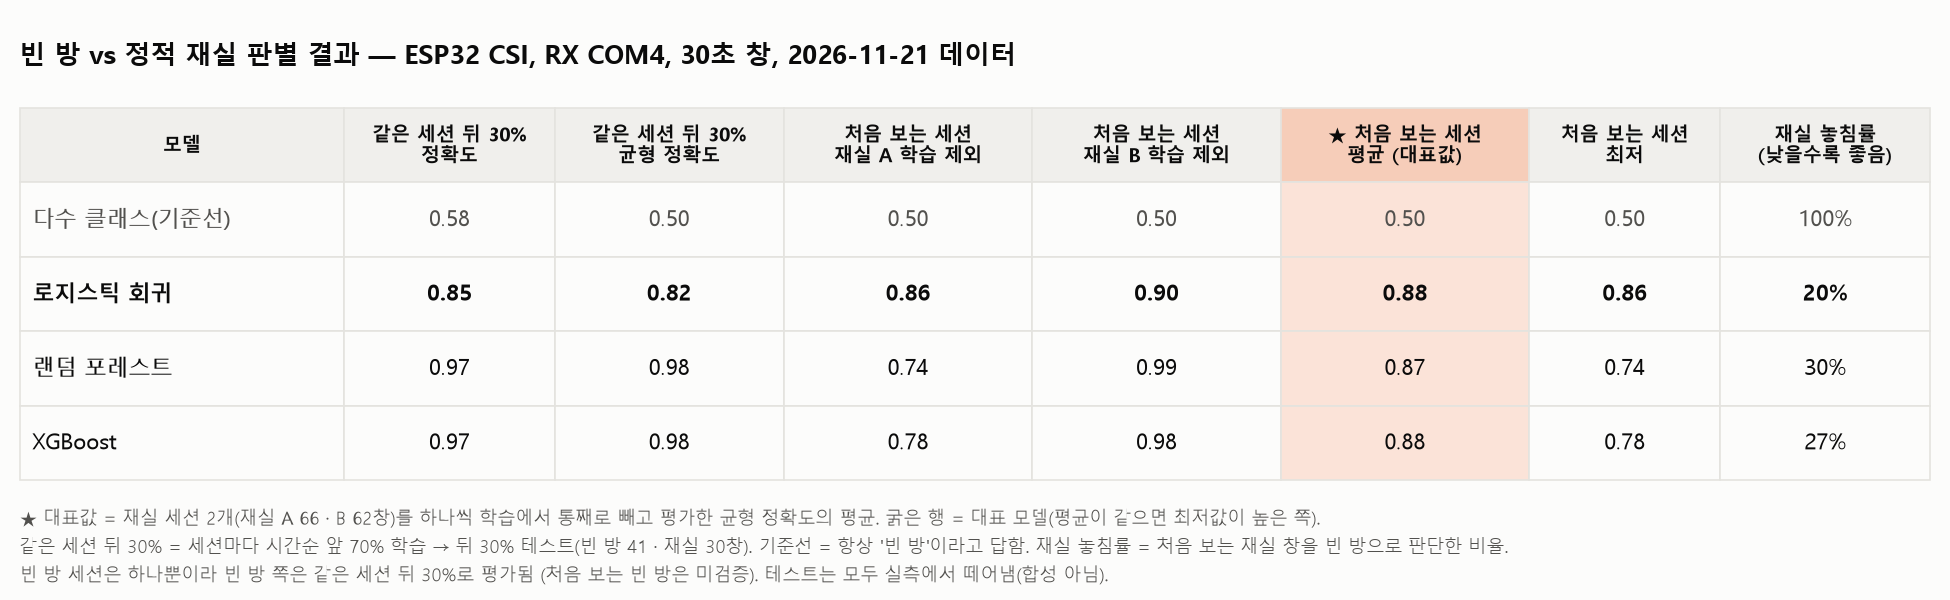
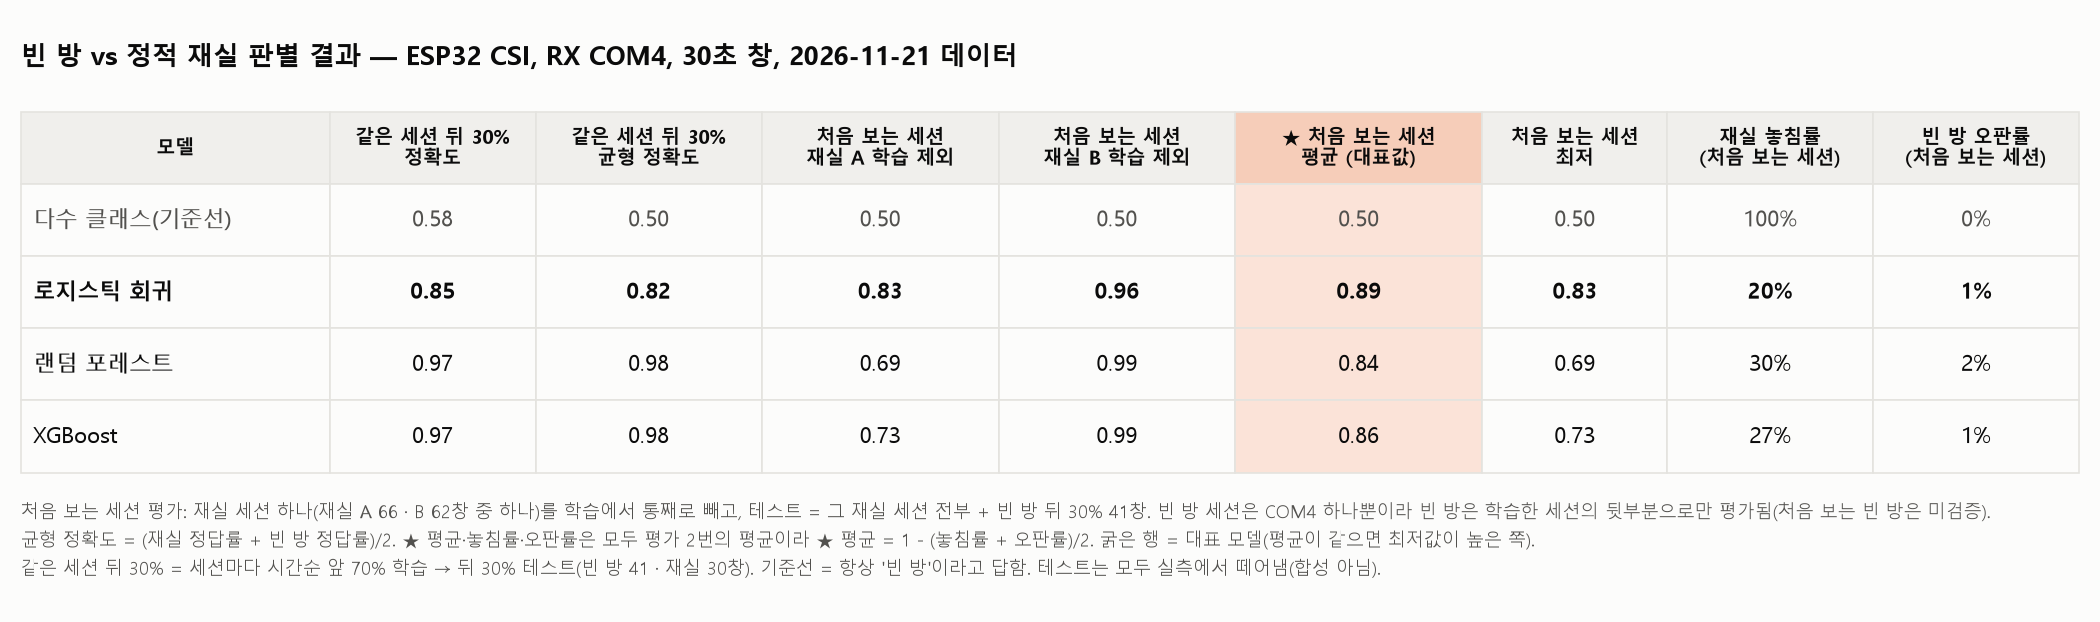
fix(pc): 결과 표 평가 기준 통일 (대표값 0.88 → 0.89)
- 처음 보는 세션 평가의 테스트 세트를 "학습에서 뺀 재실 세션 전부 + 빈 방 세션 뒤 30%"로 고정
  (이전에는 다른 재실 세션의 뒤 30%가 섞여 재실 정답률이 높게 잡힘)
- 균형 정확도·재실 놓침률·빈 방 오판률을 모두 평가별 계산 후 평균으로 통일
  → ★ 평균 = 1 - (놓침률 + 오판률)/2 가 정확히 성립, 코드에서 검사
- 빈 방 오판률 열 추가, 각주에 테스트 세트 구성과 기준 명시, 마이너스 글리프 깨짐 수정
- RESULTS.md 표·해설 갱신, 이전 판 숫자가 맞지 않았던 이유 기록

결과: 로지스틱 회귀 0.89(놓침 20%, 오판 1%), 랜덤 포레스트 0.84(30%, 2%), XGBoost 0.86(27%, 1%).

diff --git a/pc/results_table.py b/pc/results_table.py
@@ -7,9 +7,13 @@ r"""
 
 열
     같은 세션 뒤 30%      : 세션마다 시간순 앞 70% 학습 → 뒤 30% 테스트 (정확도, 균형 정확도)
-    처음 보는 재실 세션   : 재실 세션 하나를 학습에서 통째로 빼고 평가한 균형 정확도 (A, B, 평균, 최저)
-                            ★ 대표값 = 평균. 빈 방 쪽은 세션이 하나뿐이라 같은 세션 뒤 30%로 평가됨
-    재실 놓침률           : 처음 보는 재실 세션 평가 2번에서 재실 창을 빈 방으로 판단한 비율 (낮을수록 좋음)
+    처음 보는 재실 세션   : 재실 세션 하나(A 또는 B)를 학습에서 통째로 빼고 평가 (평가 2번)
+        테스트 세트 = 뺀 재실 세션의 창 전부 + 빈 방 세션의 시간순 뒤 30%
+        (빈 방 세션은 COM4 하나뿐이라 빈 방은 학습한 세션의 뒷부분으로만 평가된다. 다른 재실 세션의 뒤 30%는 넣지 않음)
+        균형 정확도 = (재실 정답률 + 빈 방 정답률) / 2, 평가마다 계산
+        ★ 평균 / 최저 = 평가 2번의 균형 정확도 평균 / 최저
+        재실 놓침률 = 1 − 재실 정답률, 빈 방 오판률 = 1 − 빈 방 정답률 — 둘 다 평가 2번의 평균
+        → 기준이 같아서 ★ 평균 = 1 − (재실 놓침률 + 빈 방 오판률) / 2 가 정확히 성립한다
 """
 from __future__ import annotations
 
@@ -45,29 +49,36 @@ def compute(features_csv: Path, rx: str = "COM4") -> pd.DataFrame:
     rows = {}
     tr, te = temporal_split(df, 0.3)
     same = fit_predict(tr, te)
-    held, miss_n, miss_d = {}, {}, {}
+    folds = {}          # name -> {key: (재실 정답률, 빈 방 정답률)}
+    n_empty_test = {}
     for key, sess in HELD.items():
         tr2, te2 = temporal_split(df, 0.3, [sess])
-        pred = fit_predict(tr2, te2)
+        test = te2[(te2.session == sess) | (te2.cls == "empty")]    # 뺀 재실 세션 + 빈 방 뒤 30%만
+        n_empty_test[key] = int((test.cls == "empty").sum())
+        pred = fit_predict(tr2, test)
+        y = test["cls"].to_numpy()
         for name, p in pred.items():
-            y = te2["cls"].to_numpy()
-            held.setdefault(name, {})[key] = balanced_accuracy_score(y, p)
-            g = (te2.session == sess).to_numpy()
-            miss_n[name] = miss_n.get(name, 0) + int((p[g] == "empty").sum())
-            miss_d[name] = miss_d.get(name, 0) + int(g.sum())
+            r_s = float(np.mean(p[y == "static"] == "static"))
+            r_e = float(np.mean(p[y == "empty"] == "empty"))
+            folds.setdefault(name, {})[key] = (r_s, r_e)
     order = ["다수 클래스(기준선)"] + [n for n in MODEL_KEYS if n in same]
     for name in order:
-        h = held[name]
+        f = folds[name]
+        bal = {k: (rs + re) / 2 for k, (rs, re) in f.items()}
         rows[name] = {
             "같은 세션 정확도": accuracy_score(te["cls"], same[name]),
             "같은 세션 균형 정확도": balanced_accuracy_score(te["cls"], same[name]),
-            "재실 A 제외": h["A"], "재실 B 제외": h["B"],
-            "★ 처음 보는 세션 평균": np.mean(list(h.values())), "처음 보는 세션 최저": min(h.values()),
-            "재실 놓침률": miss_n[name] / miss_d[name],
+            "재실 A 제외": bal["A"], "재실 B 제외": bal["B"],
+            "★ 처음 보는 세션 평균": np.mean(list(bal.values())), "처음 보는 세션 최저": min(bal.values()),
+            "재실 놓침률": np.mean([1 - rs for rs, _ in f.values()]),
+            "빈 방 오판률": np.mean([1 - re for _, re in f.values()]),
         }
+        r = rows[name]   # 기준이 같은지 확인: 평균 균형 정확도 = 1 − (놓침률 + 오판률)/2
+        assert abs(r["★ 처음 보는 세션 평균"] - (1 - (r["재실 놓침률"] + r["빈 방 오판률"]) / 2)) < 1e-9
     t = pd.DataFrame(rows).T
     t.attrs["n"] = {"same_test": f"빈 방 {int((te.cls == 'empty').sum())} · 재실 {int((te.cls == 'static').sum())}창",
                     "held_static": f"재실 A {int((df.session == HELD['A']).sum())} · B {int((df.session == HELD['B']).sum())}창",
+                    "empty_test": f"빈 방 뒤 30% {n_empty_test['A']}창",
                     "win": float(df['win'].iloc[0]), "rx": rx}
     return t
 
@@ -79,7 +90,7 @@ def to_markdown(t: pd.DataFrame) -> str:
     for name, r in t.iterrows():
         cells = []
         for c in cols:
-            v = f"{r[c]:.2f}" if c != "재실 놓침률" else f"{100 * r[c]:.0f}%"
+            v = f"{100 * r[c]:.0f}%" if c.endswith("률") else f"{r[c]:.2f}"
             cells.append(f"**{v}**" if name == best else v)
         lines.append(f"| {'**' + name + '**' if name == best else name} | " + " | ".join(cells) + " |")
     return "\n".join(lines)
@@ -97,17 +108,18 @@ def to_png(t: pd.DataFrame, out: Path) -> None:
     header = ["모델",
               "같은 세션 뒤 30%\n정확도", "같은 세션 뒤 30%\n균형 정확도",
               "처음 보는 세션\n재실 A 학습 제외", "처음 보는 세션\n재실 B 학습 제외",
-              "★ 처음 보는 세션\n평균 (대표값)", "처음 보는 세션\n최저", "재실 놓침률\n(낮을수록 좋음)"]
+              "★ 처음 보는 세션\n평균 (대표값)", "처음 보는 세션\n최저",
+              "재실 놓침률\n(처음 보는 세션)", "빈 방 오판률\n(처음 보는 세션)"]
     body = []
     for name, r in t.iterrows():
-        body.append([name] + [f"{r.iloc[k]:.2f}" for k in range(6)] + [f"{100 * r.iloc[6]:.0f}%"])
+        body.append([name] + [f"{100 * v:.0f}%" if c.endswith("률") else f"{v:.2f}" for c, v in r.items()])
     best = pick_best(t)
-    fig = plt.figure(figsize=(13, 0.9 + 0.62 * (len(body) + 1)))
+    fig = plt.figure(figsize=(14, 1.05 + 0.62 * (len(body) + 1)))
     fig.patch.set_facecolor(SURF)
-    ax = fig.add_axes([0.01, 0.2, 0.98, 0.62])
+    ax = fig.add_axes([0.01, 0.24, 0.98, 0.58])
     ax.axis("off")
     tb = ax.table(cellText=body, colLabels=header, cellLoc="center", bbox=[0, 0, 1, 1],
-                  colWidths=[0.17, 0.11, 0.12, 0.13, 0.13, 0.13, 0.1, 0.11])
+                  colWidths=[0.15, 0.1, 0.11, 0.115, 0.115, 0.12, 0.09, 0.1, 0.1])
     tb.auto_set_font_size(False)
     tb.set_fontsize(10.5)
     for (i, j), cell in tb.get_celld().items():
@@ -129,12 +141,13 @@ def to_png(t: pd.DataFrame, out: Path) -> None:
             cell.PAD = 0.04
     fig.text(0.01, 0.93, f"빈 방 vs 정적 재실 판별 결과 — ESP32 CSI, RX {n['rx']}, {n['win']:g}초 창, 2026-11-21 데이터",
              ha="left", va="top", fontsize=12.5, fontweight="bold", color=INK)
-    fig.text(0.01, 0.16,
-             f"★ 대표값 = 재실 세션 2개({n['held_static']})를 하나씩 학습에서 통째로 빼고 평가한 균형 정확도의 평균. "
+    fig.text(0.01, 0.2,
+             f"처음 보는 세션 평가: 재실 세션 하나({n['held_static']} 중 하나)를 학습에서 통째로 빼고, 테스트 = 그 재실 세션 전부 + {n['empty_test']}. "
+             f"빈 방 세션은 COM4 하나뿐이라 빈 방은 학습한 세션의 뒷부분으로만 평가됨(처음 보는 빈 방은 미검증).\n"
+             f"균형 정확도 = (재실 정답률 + 빈 방 정답률)/2. ★ 평균·놓침률·오판률은 모두 평가 2번의 평균이라 ★ 평균 = 1 - (놓침률 + 오판률)/2. "
              f"굵은 행 = 대표 모델(평균이 같으면 최저값이 높은 쪽).\n"
              f"같은 세션 뒤 30% = 세션마다 시간순 앞 70% 학습 → 뒤 30% 테스트({n['same_test']}). 기준선 = 항상 '빈 방'이라고 답함. "
-             f"재실 놓침률 = 처음 보는 재실 창을 빈 방으로 판단한 비율.\n"
-             f"빈 방 세션은 하나뿐이라 빈 방 쪽은 같은 세션 뒤 30%로 평가됨 (처음 보는 빈 방은 미검증). 테스트는 모두 실측에서 떼어냄(합성 아님).",
+             f"테스트는 모두 실측에서 떼어냄(합성 아님).",
              ha="left", va="top", fontsize=8.5, color=INK2, linespacing=1.6)
     out.parent.mkdir(parents=True, exist_ok=True)
     fig.savefig(out, dpi=150, facecolor=SURF)

diff --git a/docs/RESULTS.md b/docs/RESULTS.md
@@ -12,21 +12,24 @@
 | 숨 멈춤을 감지할 수 있나? | **아직 아님.** 숨 참는 구간의 주기성 점수가 내려가지 않음 |
 | 가장 큰 한계 | 빈 방 세션 1개·재실 세션 2개뿐. COM4 신호가 약함(RSSI −80~−84 dBm) |
 
-### 결과 표 (대표값: **균형 정확도 0.88**, 로지스틱 회귀)
+### 결과 표 (대표값: **균형 정확도 0.89**, 로지스틱 회귀)
 
 ![결과 표](figures/results_table.png)
 
-| 모델 | 같은 세션 정확도 | 같은 세션 균형 정확도 | 재실 A 제외 | 재실 B 제외 | ★ 처음 보는 세션 평균 | 처음 보는 세션 최저 | 재실 놓침률 |
-|---|---|---|---|---|---|---|---|
-| 다수 클래스(기준선) | 0.58 | 0.50 | 0.50 | 0.50 | 0.50 | 0.50 | 100% |
-| **로지스틱 회귀** | **0.85** | **0.82** | **0.86** | **0.90** | **0.88** | **0.86** | **20%** |
-| 랜덤 포레스트 | 0.97 | 0.98 | 0.74 | 0.99 | 0.87 | 0.74 | 30% |
-| XGBoost | 0.97 | 0.98 | 0.78 | 0.98 | 0.88 | 0.78 | 27% |
+| 모델 | 같은 세션 정확도 | 같은 세션 균형 정확도 | 재실 A 제외 | 재실 B 제외 | ★ 처음 보는 세션 평균 | 처음 보는 세션 최저 | 재실 놓침률 | 빈 방 오판률 |
+|---|---|---|---|---|---|---|---|---|
+| 다수 클래스(기준선) | 0.58 | 0.50 | 0.50 | 0.50 | 0.50 | 0.50 | 100% | 0% |
+| **로지스틱 회귀** | **0.85** | **0.82** | **0.83** | **0.96** | **0.89** | **0.83** | **20%** | **1%** |
+| 랜덤 포레스트 | 0.97 | 0.98 | 0.69 | 0.99 | 0.84 | 0.69 | 30% | 2% |
+| XGBoost | 0.97 | 0.98 | 0.73 | 0.99 | 0.86 | 0.73 | 27% | 1% |
 
-- ★ 대표값 = 재실 세션 2개를 하나씩 학습에서 통째로 빼고 평가한 균형 정확도의 평균. 평균이 같으면 최저값이 높은 모델(로지스틱 회귀)을 대표로 함
+- **처음 보는 세션 평가 방법**: 재실 세션 하나(A 66창 또는 B 62창)를 학습에서 통째로 빼고, **테스트 세트 = 그 재실 세션 전부 + 빈 방 세션의 시간순 뒤 30%(41창)**. 빈 방 세션은 COM4 하나뿐이라 빈 방은 학습한 세션의 뒷부분으로만 평가됨. 다른 재실 세션의 뒤 30%는 테스트에 넣지 않음
+- **지표 기준 통일**: 균형 정확도 = (재실 정답률 + 빈 방 정답률)/2를 평가마다 계산하고, ★ 평균·재실 놓침률·빈 방 오판률은 모두 평가 2번의 평균. 그래서 ★ 평균 = 1 − (놓침률 + 오판률)/2가 정확히 성립함 (예: 로지스틱 회귀 1 − (19.8% + 1.2%)/2 = 0.895)
+  - 이전 판(0.88/0.87/0.88)은 테스트 세트에 다른 재실 세션의 뒤 30%가 섞여 있었고 놓침률만 합산이라 두 숫자가 서로 맞지 않았음 → 2026-11-21 수정
+- ★ 대표값 = 위 평균. 평균이 같으면 최저값이 높은 모델을 대표로 함
 - 같은 세션 0.98(랜덤 포레스트·XGBoost)은 학습한 세션의 몇 분 뒤를 맞힌 낙관적인 값
-- 가장 많은 오류는 **재실을 빈 방으로 판단**(재실 놓침)이며 대부분 재실 A 세션에서 나옴. 빈 방을 재실로 판단한 오류는 1~2창(빈 방 세션 시작·끝)
-- 빈 방 세션이 하나뿐이라 빈 방 쪽은 같은 세션 뒤 30%로 평가됨(처음 보는 빈 방은 미검증)
+- 가장 많은 오류는 **재실을 빈 방으로 판단**(재실 놓침 20~30%)이며 대부분 재실 A 세션에서 나옴. 빈 방을 재실로 판단한 오류는 1~2%(빈 방 세션 시작·끝)
+- 처음 보는 빈 방에 대한 성능은 미검증
 - 표 재생성: `python pc/results_table.py` (`processed/results_table.csv`도 함께 저장)
 
 ---
